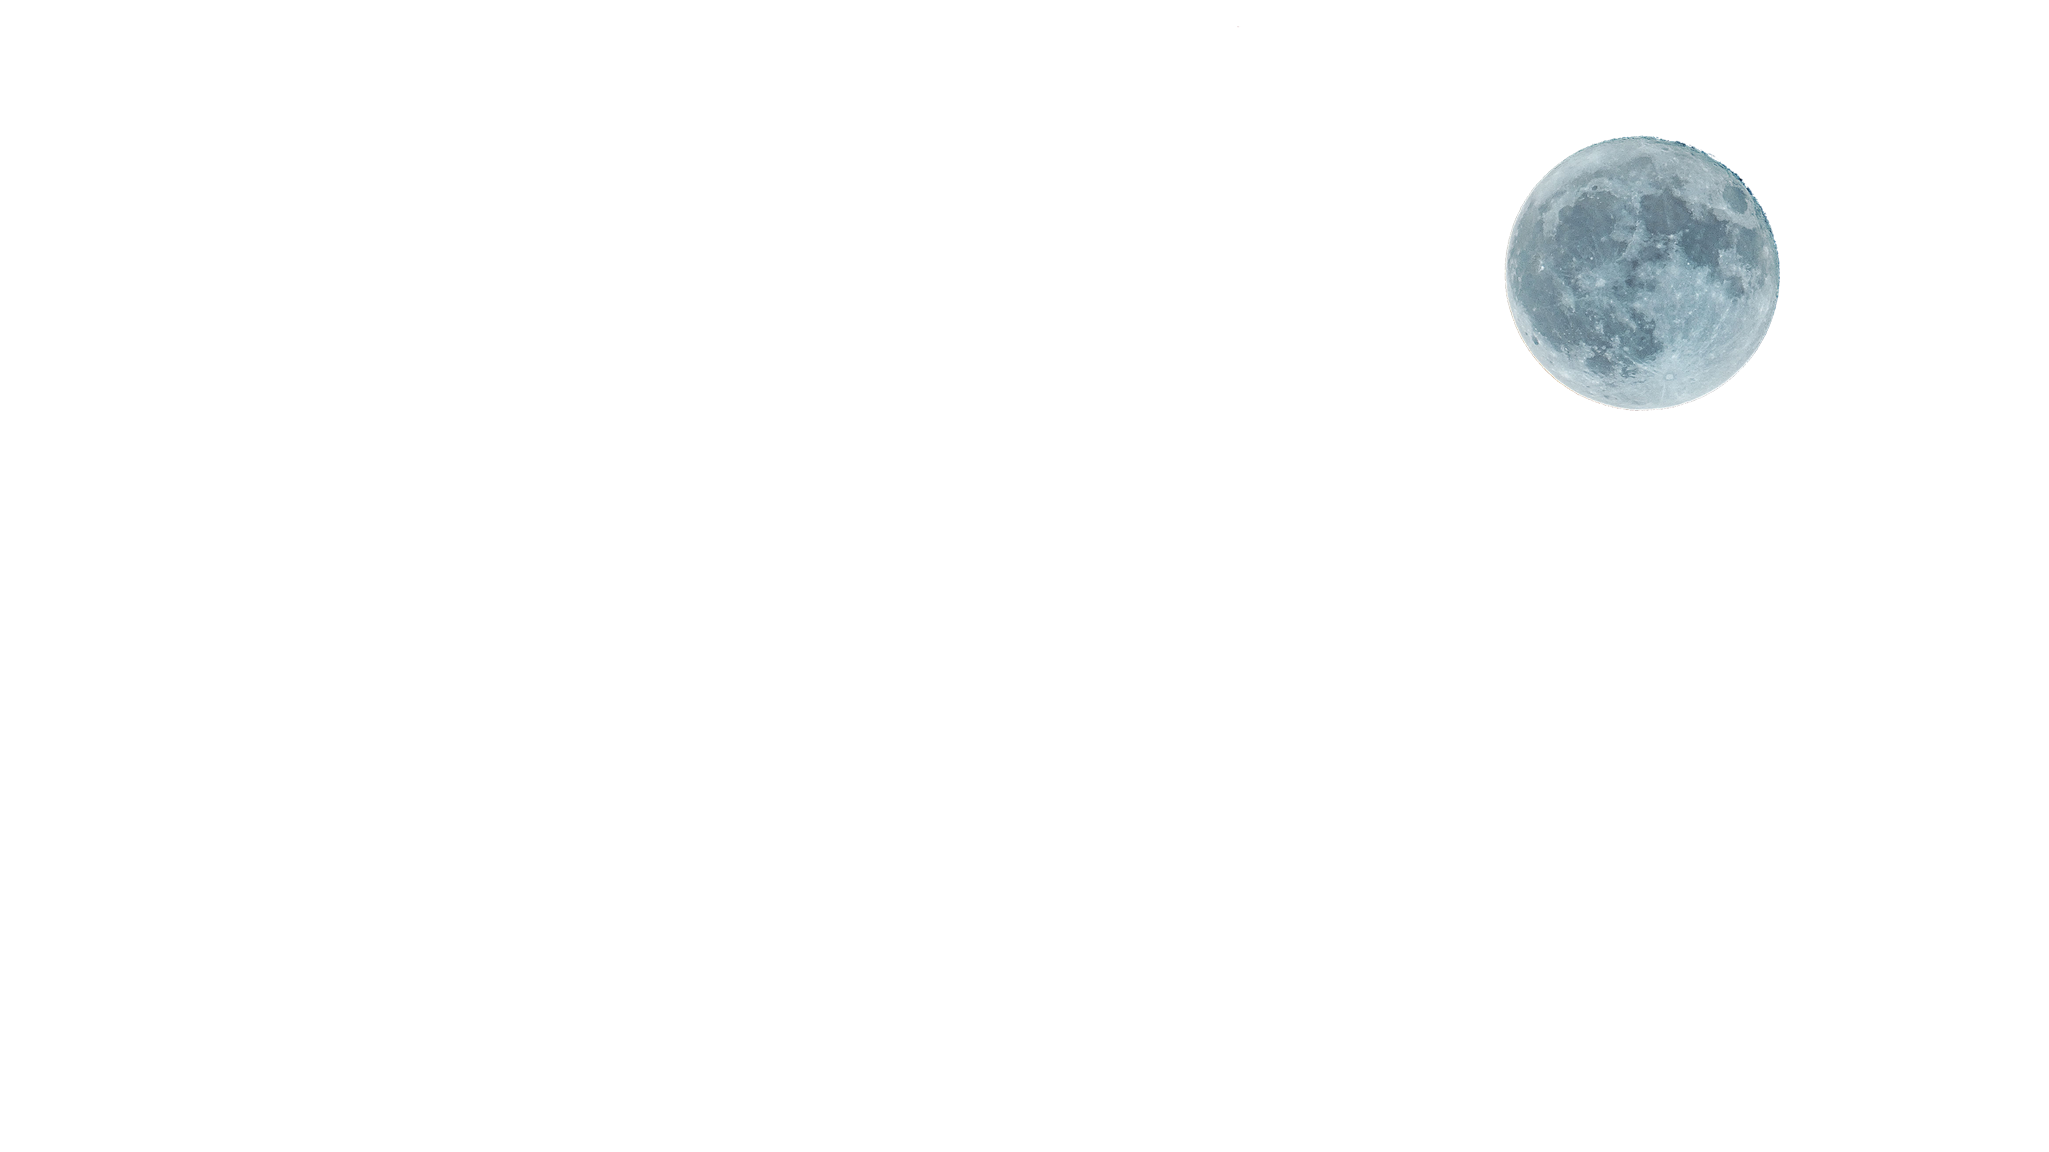
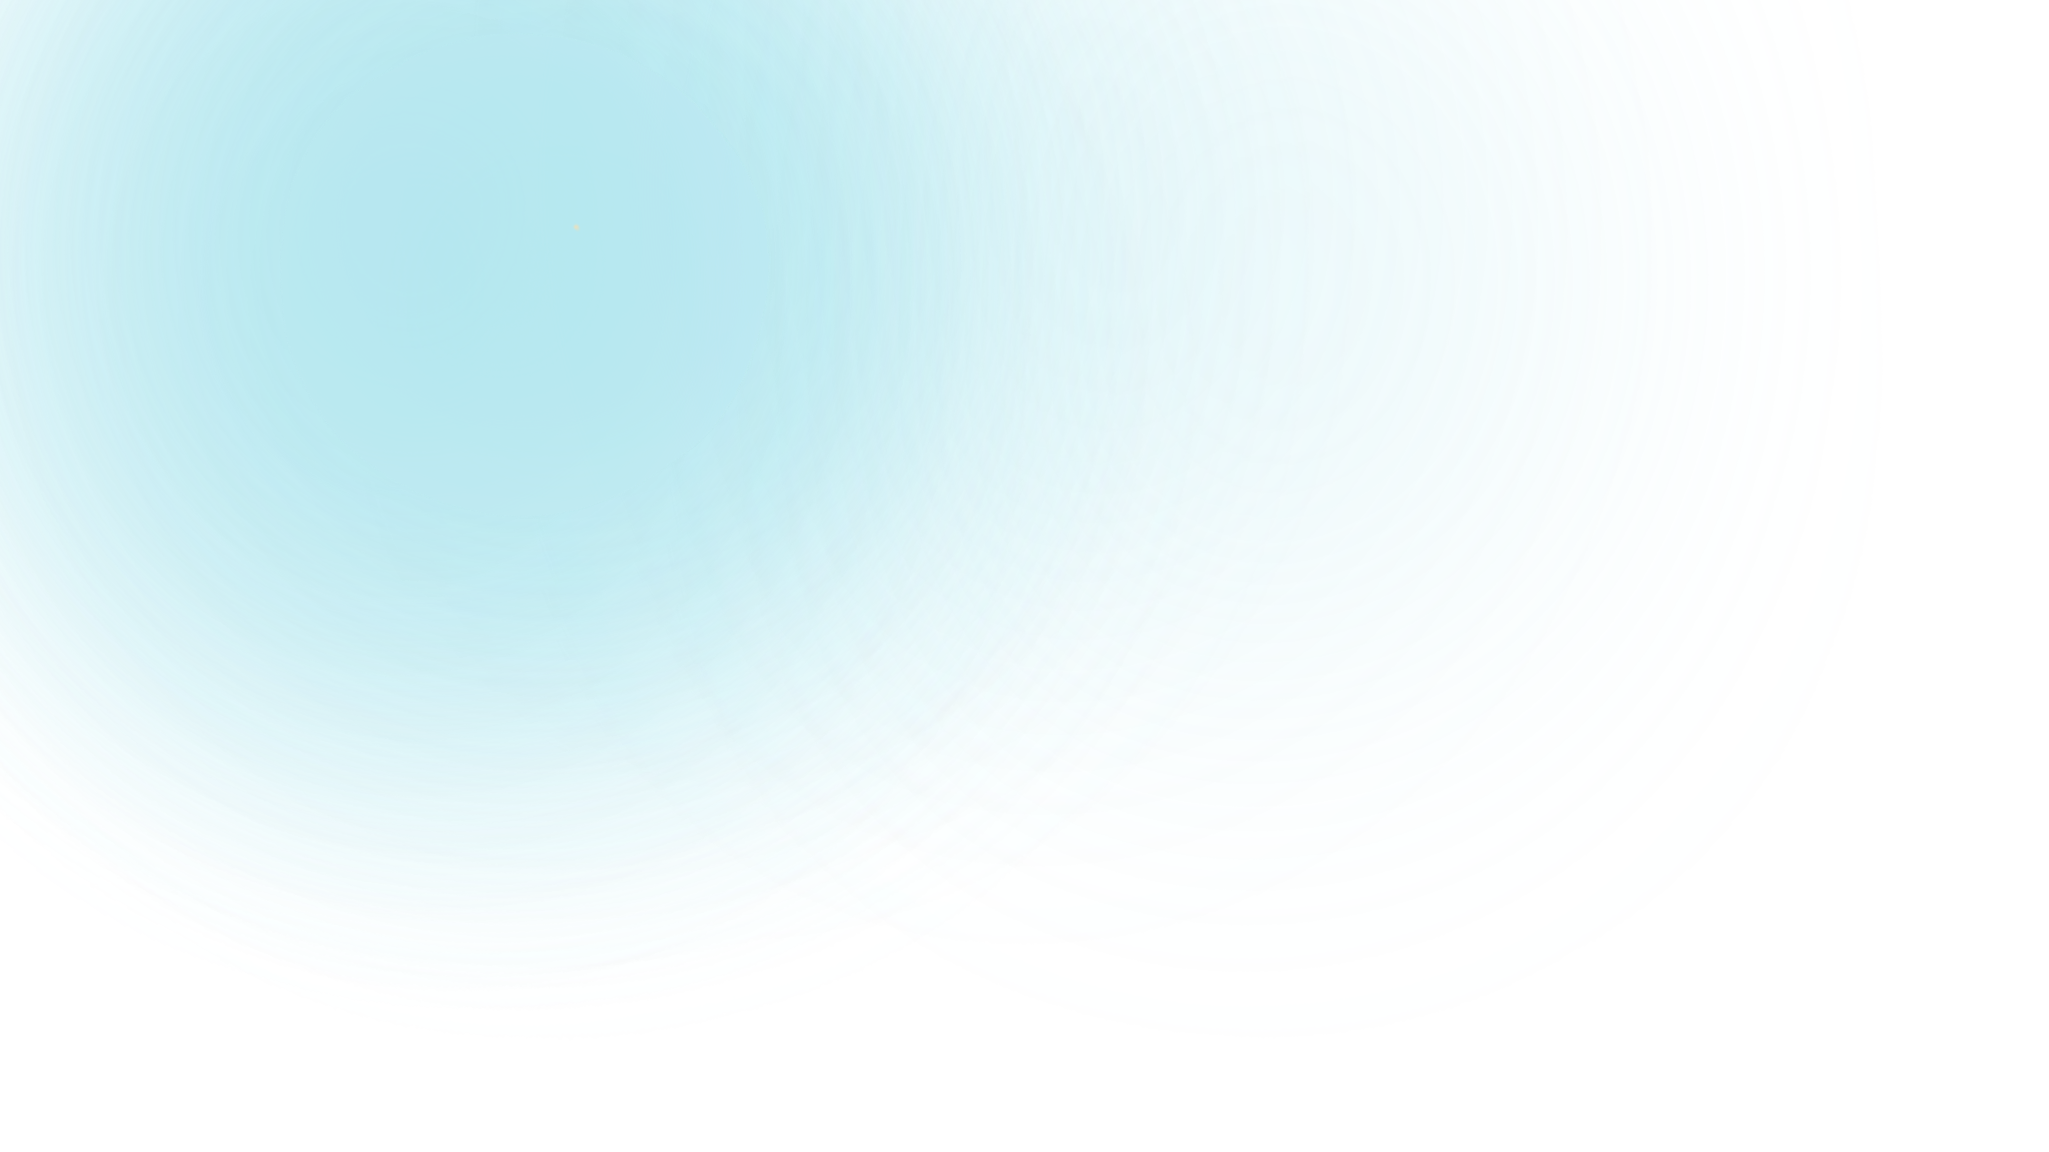
Noble Bout demo

diff --git a/index.html b/index.html
@@ -10,14 +10,17 @@
   <body> 
 
 <section>
-    <img src="img/sky.jpeg" id="sky">
+    <img src="img/back.png" id="back">
+    <img src="img/stars.png" id="stars">
     <img src="img/moon.png" id="moon">
-    <img src="img/mountain.png" id="mountain">
-    <img src="img/road.png" id="road">
-  <h2 id="text">Moon Light</h2>
+    <img src="img/last.png" id="last">
+    <img src="img/be.png" id="be">
+    <img src="img/tree.png" id="tree">
+    <img src="img/front.png" id="front">
+   <h2 id="text">Noble Bout</h2>
 </section>
 <h1>
-  Moon light <br> dfhasodfhso f eofhewohfheifheifofjsdkfj  hfjdsfkh.
+  Noble Bout <br> dfhasodfhso f eofhewohfheifheifofjsdkfj  hfjdsfkh.
 </h1>
 <p>
   hfihfihihjj hoih  hfosdihfoais f fihoasdihfo s hifoasdif o h fodhsoaihfuirhfjakv vhuribv s. hh
@@ -27,35 +30,27 @@
 </p>
  
 <script type="text/javascript">
-let sky = document.getElementById("sky");
-let moon = document.getElementById("moon");
-let mountain = document.getElementById("mountain");
-let road = document.getElementById("road");
+let back = document.getElementById("back");
+let last = document.getElementById("last");
+let tree = document.getElementById("tree");
 let text = document.getElementById("text");
+let be = document.getElementById("be");
+let front = document.getElementById("front");
+let moon = document.getElementById("moon");
+
 
 window.addEventListener('scroll', function(e){
 var value = window.pageYOffset;
-sky.style.top = value * 0.5 + 'px';
-moon.style.left = -value * 0.5 + 'px';
-mountain.style.top = -value * 0.15 + 'px';
-road.style.top = value * 0.5 + 'px';
-text.style.top = value * 1 + 'px';
+back.style.bottom = value * 0.5 + 'px';
+moon.style.left= -value * 0.5 + 'px';
+last.style.top= value * 1 + 'px';
+be.style.bottom = value * 0.5 + 'px';
+tree.style.bottom = value * 1 + 'px';
+front.style.bottom = -value * 0.5 + 'px';
+text.style.top = value * 0.5 + 'px';
+
 });
 </script>
-<script src="js/jquery-1.11.2.min.js"></script>
-      <script src="js/animsition/jquery.animsition.min.js"></script>
-      <script src="js/sticky/jquery.sticky.js"></script>
-      <script src="js/slick/slick.min.js"></script>
-      <script src="js/main.js"></script>
-      <script>
-      $('.slides').slick({
-       fade: true,
-        autoplay: true,
-        autoplaySpeed: 2000,
-        arrows: false,
-        dots: true
-      });
-      </script>
     </body>
     </html>
     

diff --git a/css/main.css b/css/main.css
@@ -49,10 +49,12 @@ pointer-events: none;
 #text{
 position: relative;
 color: #fff;
-font-size: 10em;
+font-size: 5em;
 z-index: 1;
 }
-#road{
+#tree{
 z-index: 2; 
-
+}
+h1{
+color: #fff;
 }
